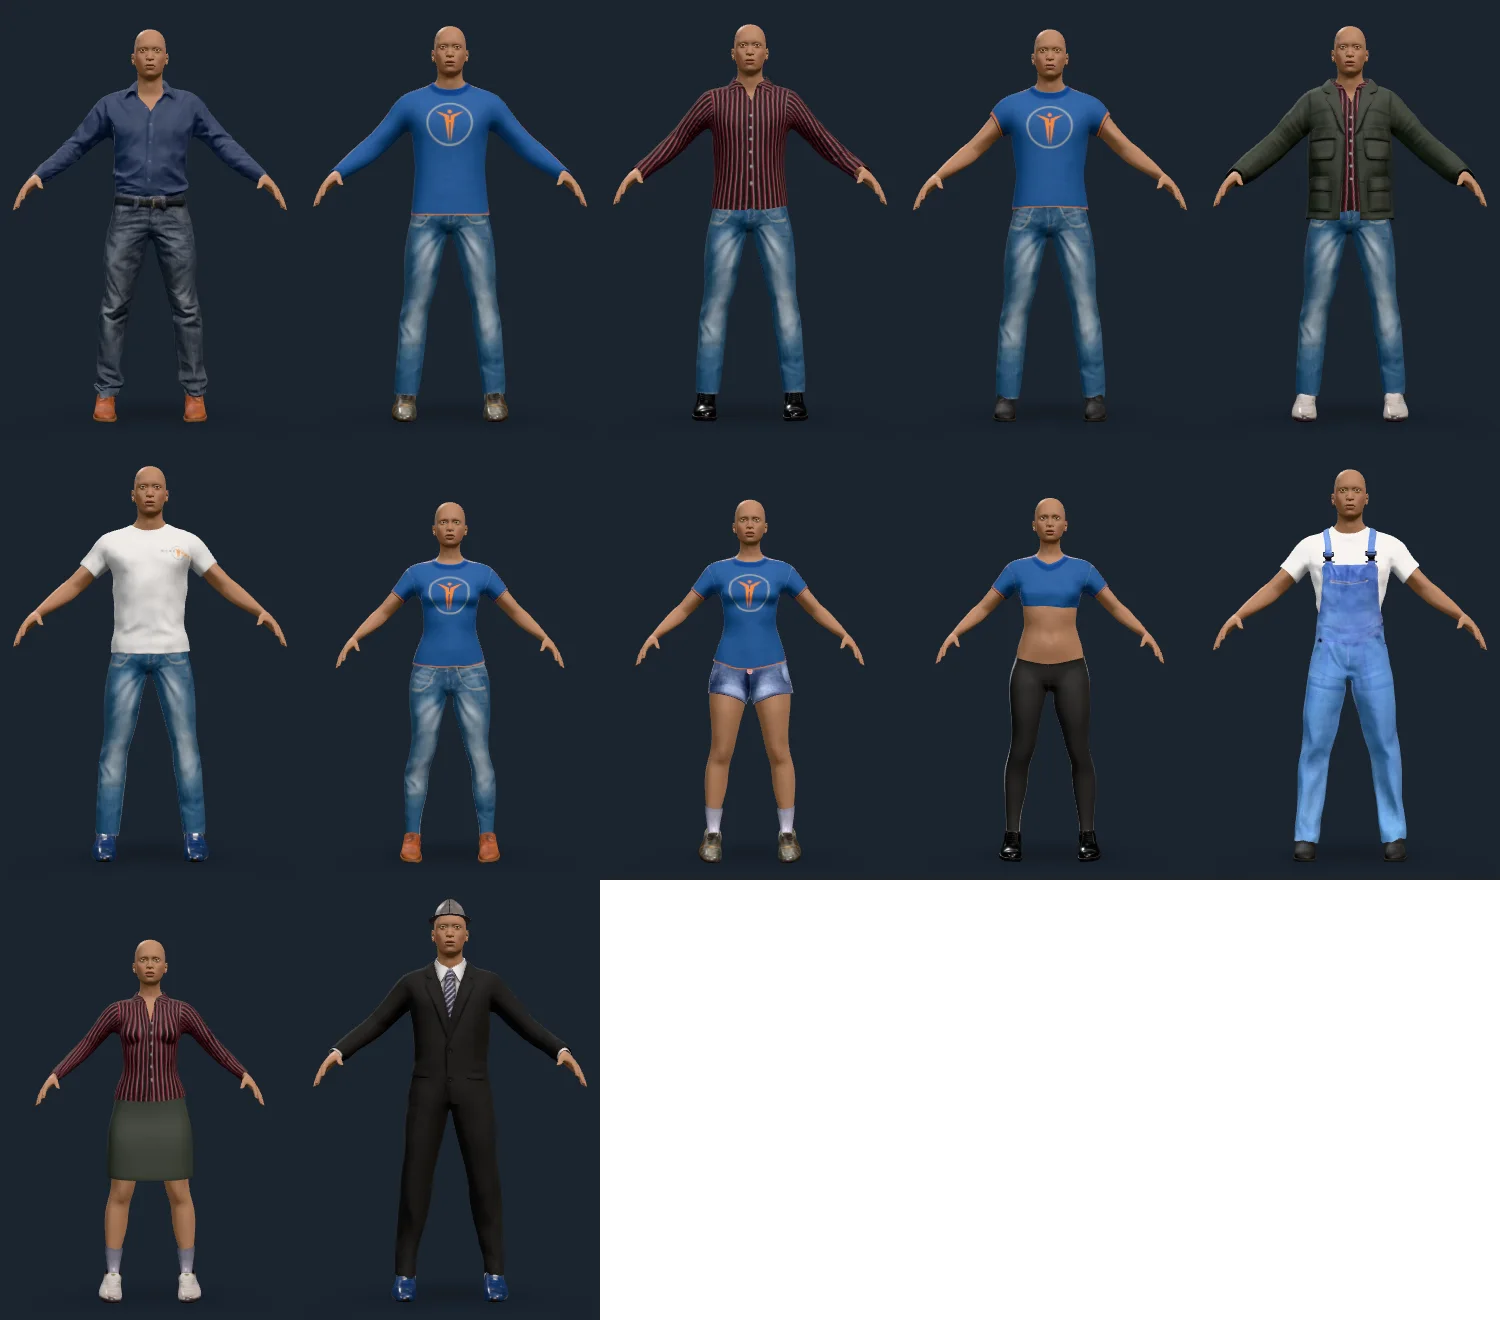
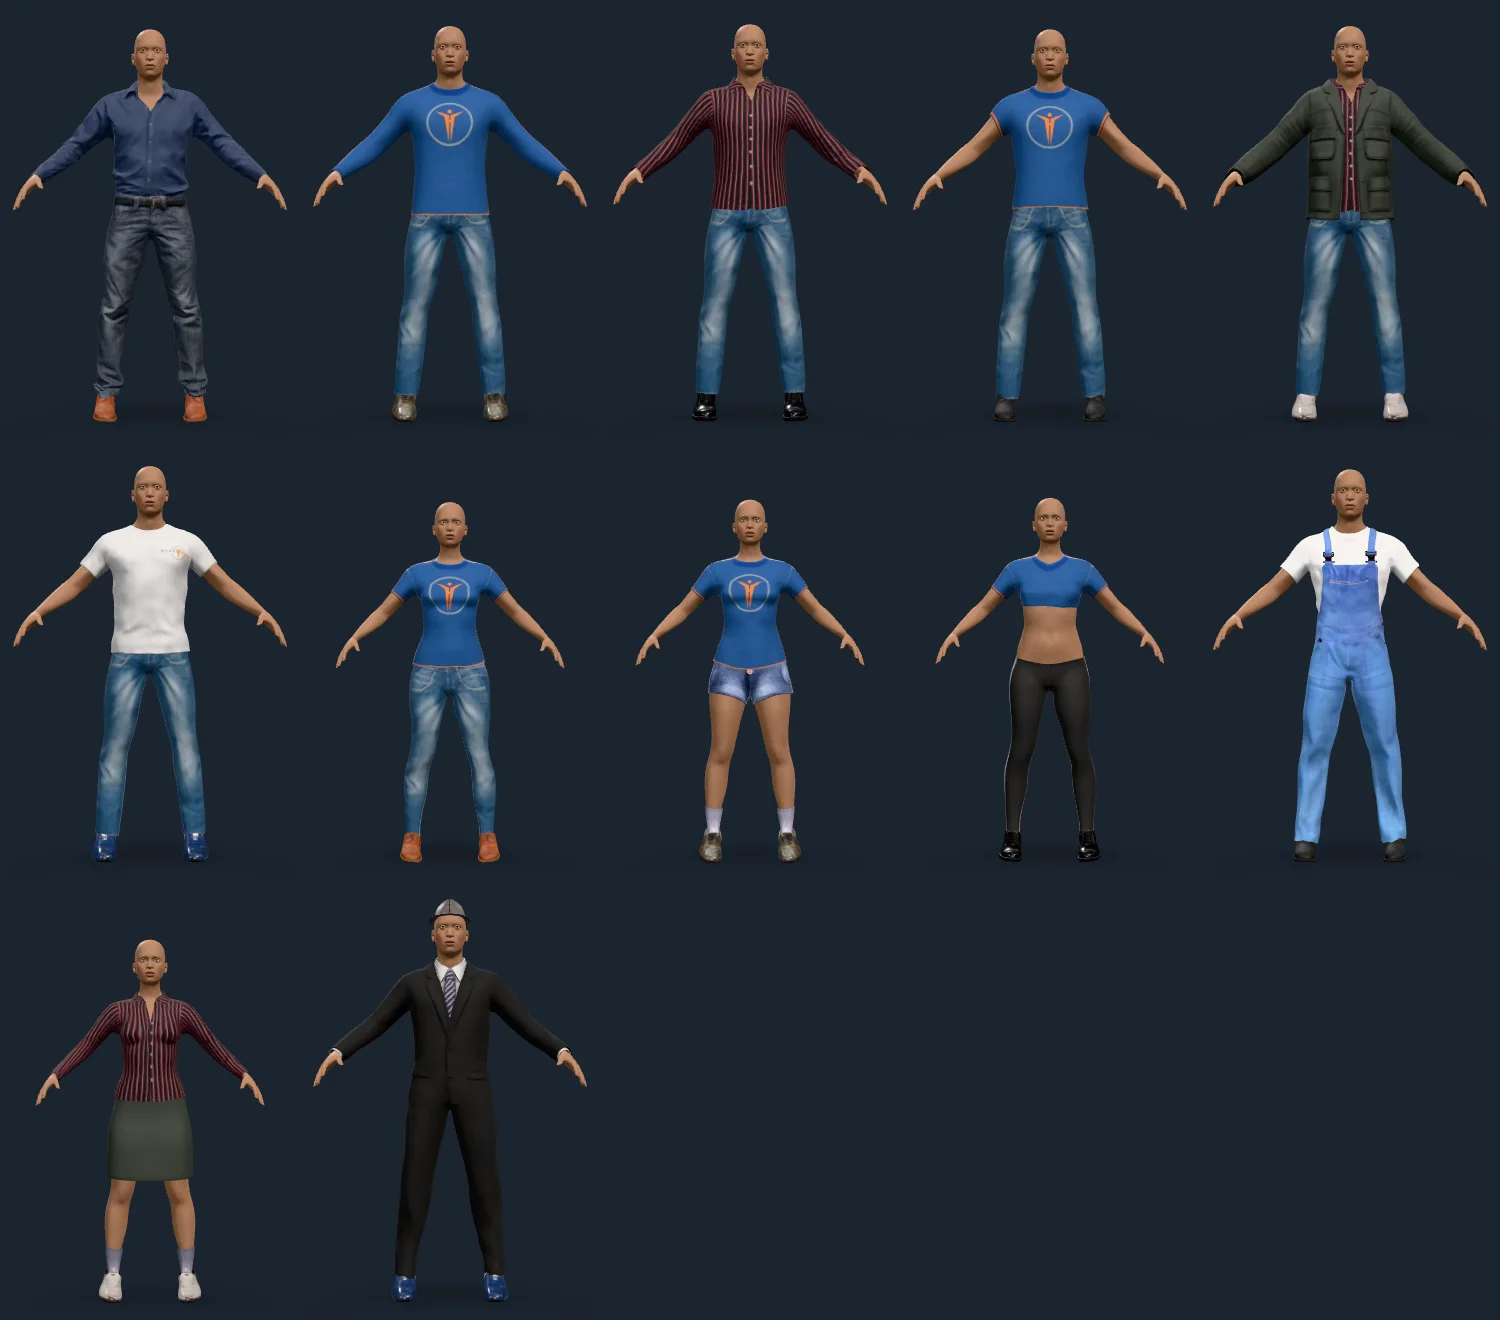
feat: label garments for a person, and pad contact sheets with the stage
The wardrobe listed garments by asset name ("Male casualsuit 01"), which says
whom the asset was drawn on, not what it is, and a creator should not make
people pick clothes by sex. Each garment now carries a label from the pack
("Navy shirt and jeans", "Brown oxfords", "Suit and tie"), the Wardrobe shows
those, and a test holds the labels distinct and free of a sex or a file
number. Packing again changes only the manifest.

The contact sheet left empty cells in a short last row transparent, which a
viewer drew white. They now take the stage's background. The evidence sheets
are re-rendered, and the evidence notes the clothing pack ships with the
public demo, loaded only by ?clothing.

Claude-Session: https://claude.ai/code/session_018c2hXVLdDb8BTFpxwP3foX

Changed region(s): [[0.3987, 0.6523, 1.0, 1.0]]

diff --git a/scripts/pack-clothing.ts b/scripts/pack-clothing.ts
@@ -57,26 +57,26 @@ const SYSTEM_ASSETS_ZIP = {
  * two stacks two pairs of trousers, and one is worn at a time. The shoes' own
  * `z_depth` 5 puts them under every suit's 50. The id is `<group>/<directory>`.
  */
-const GARMENTS: readonly [string, keyof typeof GARMENT_LAYERS][] = [
-  ["male_casualsuit01", "clothes"],
-  ["male_casualsuit02", "clothes"],
-  ["male_casualsuit03", "clothes"],
-  ["male_casualsuit04", "clothes"],
-  ["male_casualsuit05", "clothes"],
-  ["male_casualsuit06", "clothes"],
-  ["female_casualsuit01", "clothes"],
-  ["female_casualsuit02", "clothes"],
-  ["female_sportsuit01", "clothes"],
-  ["male_worksuit01", "clothes"],
-  ["female_elegantsuit01", "clothes"],
-  ["male_elegantsuit01", "clothes"],
-  ["shoes01", "shoes"],
-  ["shoes02", "shoes"],
-  ["shoes03", "shoes"],
-  ["shoes04", "shoes"],
-  ["shoes05", "shoes"],
-  ["shoes06", "shoes"],
-  ["fedora01", "hat"],
+const GARMENTS: readonly [string, keyof typeof GARMENT_LAYERS, string][] = [
+  ["male_casualsuit01", "clothes", "Navy shirt and jeans"],
+  ["male_casualsuit02", "clothes", "Blue sweater and jeans"],
+  ["male_casualsuit03", "clothes", "Striped shirt and jeans"],
+  ["male_casualsuit04", "clothes", "Blue T-shirt and jeans"],
+  ["male_casualsuit05", "clothes", "Field jacket and jeans"],
+  ["male_casualsuit06", "clothes", "White T-shirt and jeans"],
+  ["female_casualsuit01", "clothes", "Fitted T-shirt and jeans"],
+  ["female_casualsuit02", "clothes", "T-shirt and denim shorts"],
+  ["female_sportsuit01", "clothes", "Sports top and leggings"],
+  ["male_worksuit01", "clothes", "Overalls"],
+  ["female_elegantsuit01", "clothes", "Striped blouse and skirt"],
+  ["male_elegantsuit01", "clothes", "Suit and tie"],
+  ["shoes01", "shoes", "Brown oxfords"],
+  ["shoes02", "shoes", "Camouflage trainers"],
+  ["shoes03", "shoes", "Black dress shoes"],
+  ["shoes04", "shoes", "Black plimsolls"],
+  ["shoes05", "shoes", "White trainers"],
+  ["shoes06", "shoes", "Blue trainers"],
+  ["fedora01", "hat", "Grey fedora"],
 ];
 const GROUP: Record<keyof typeof GARMENT_LAYERS, string> = {
   underwear: "underwear",
@@ -95,8 +95,8 @@ const TEXTURES = { max: 1024, quality: 86, normalQuality: 78 };
 
 const sha = (file: string) => createHash("sha256").update(fs.readFileSync(file)).digest("hex");
 
-function compile(): { asset: CompiledAsset; tags: string[]; source: string }[] {
-  return GARMENTS.map(([dir, kind]) => {
+function compile(): { asset: CompiledAsset; label: string; tags: string[]; source: string }[] {
+  return GARMENTS.map(([dir, kind, label]) => {
     const folder = path.join(SYSTEM, "clothes", dir);
     const mhclo = fs.readdirSync(folder).find((f) => f.endsWith(".mhclo"));
     if (!mhclo) throw new Error(`${folder} has no .mhclo`);
@@ -109,7 +109,7 @@ function compile(): { asset: CompiledAsset; tags: string[]; source: string }[] {
       .map((l) => l.slice(4).trim())
       // The project's own mark, on every asset, tells a browser nothing.
       .filter((t) => !t.includes("MakeHuman"));
-    return { asset, tags, source: path.relative(SYSTEM, file) };
+    return { asset, label, tags, source: path.relative(SYSTEM, file) };
   });
 }
 
@@ -138,6 +138,7 @@ function main(): Promise<void> {
     const packed = writeGarments(OUT, GARMENTS_FILE, assets);
     const entries: GarmentEntry[] = packed.entries.map((e, i) => ({
       ...e,
+      label: (compiled[i] as (typeof compiled)[number]).label,
       tags: (compiled[i] as (typeof compiled)[number]).tags,
     }));
     const manifest: ClothingManifest = {

diff --git a/src/editor/ui/WardrobePanel.tsx b/src/editor/ui/WardrobePanel.tsx
@@ -2,16 +2,11 @@
  * The wardrobe: the clothing pack's garments by kind, one chip each. Choosing
  * a garment wears it (and takes off the one of its kind it replaces); choosing
  * a worn one takes it off. Kinds layer over one another, so a jacket goes over
- * a suit. Shown only when the client loaded a clothing pack.
+ * a suit. Garments are named for what they are, not whom they were drawn for:
+ * they bind to any figure. Shown only when the client loaded a clothing pack.
  */
 import { wardrobeGroups, wearGarment, wornIn } from "../wardrobe.ts";
 import type { HumanoidEditor } from "./useHumanoidEditor.ts";
-
-/** "male_casualsuit01" as "Male casualsuit 01". */
-const title = (name: string) => {
-  const spaced = name.replace(/_/g, " ").replace(/(\D)(\d+)$/, "$1 $2");
-  return spaced.charAt(0).toUpperCase() + spaced.slice(1);
-};
 
 export function WardrobePanel({ editor }: { editor: HumanoidEditor }) {
   const wardrobe = editor.ready?.wardrobe ?? [];
@@ -36,10 +31,9 @@ export function WardrobePanel({ editor }: { editor: HumanoidEditor }) {
                   type="button"
                   className="hk-chip"
                   aria-pressed={worn.has(g.id)}
-                  title={g.tags.join(", ")}
                   onClick={() => editor.update((r) => wearGarment(r, g, wardrobe))}
                 >
-                  {title(g.name)}
+                  {g.label}
                 </button>
               ))}
             </fieldset>

diff --git a/tests/browser/panels.test.tsx b/tests/browser/panels.test.tsx
@@ -204,16 +204,16 @@ describe("WardrobePanel", () => {
     // Garments are listed by kind, with readable names.
     await expect.element(screen.getByText("Outfits").first()).toBeVisible();
     await expect.element(screen.getByText("Shoes").first()).toBeVisible();
-    const one = screen.getByRole("button", { name: "Male casualsuit 01" });
+    const one = screen.getByRole("button", { name: "Navy shirt and jeans" });
     await one.click();
     await expect.element(one).toHaveAttribute("aria-pressed", "true");
     expect(latest?.recipe.outfit).toEqual(["suits/male_casualsuit01"]);
     // A second outfit replaces the first; shoes layer over it.
-    await screen.getByRole("button", { name: "Male casualsuit 02" }).click();
-    await screen.getByRole("button", { name: "Shoes 01" }).click();
+    await screen.getByRole("button", { name: "Blue sweater and jeans" }).click();
+    await screen.getByRole("button", { name: "Brown oxfords" }).click();
     expect(latest?.recipe.outfit).toEqual(["suits/male_casualsuit02", "shoes/shoes01"]);
     await expect.element(one).toHaveAttribute("aria-pressed", "false");
-    await screen.getByRole("button", { name: "Shoes 01" }).click();
+    await screen.getByRole("button", { name: "Brown oxfords" }).click();
     expect(latest?.recipe.outfit).toEqual(["suits/male_casualsuit02"]);
     // Wearing is one undoable step.
     latest?.undo();

diff --git a/tests/wardrobe.test.ts b/tests/wardrobe.test.ts
@@ -10,10 +10,10 @@ import { createRecipe } from "../src/recipe/recipe.ts";
 import { clothingManifest } from "./fixtures.ts";
 
 const wardrobe: WardrobeEntry[] = [
-  { id: "suits/a", name: "a", kind: "clothes", tags: ["Casual"] },
-  { id: "suits/b", name: "b", kind: "clothes", tags: [] },
-  { id: "suits/j", name: "j", kind: "jacket", tags: ["Elegant"] },
-  { id: "shoes/s", name: "s", kind: "shoes", tags: [] },
+  { id: "suits/a", name: "a", label: "A", kind: "clothes", tags: ["Casual"] },
+  { id: "suits/b", name: "b", label: "B", kind: "clothes", tags: [] },
+  { id: "suits/j", name: "j", label: "J", kind: "jacket", tags: ["Elegant"] },
+  { id: "shoes/s", name: "s", label: "S", kind: "shoes", tags: [] },
 ];
 const [a, b, j, s] = wardrobe as [WardrobeEntry, WardrobeEntry, WardrobeEntry, WardrobeEntry];
 
@@ -24,6 +24,7 @@ describe("the wardrobe", () => {
     expect(list.find((g) => g.id === "shoes/shoes01")).toMatchObject({
       kind: "shoes",
       name: "shoes01",
+      label: "Brown oxfords",
     });
     expect(wardrobeOf(null)).toEqual([]);
   });

diff --git a/tests/clothing.test.ts b/tests/clothing.test.ts
@@ -48,6 +48,17 @@ describe("the clothing pack", () => {
     for (const id of assets.garments.keys()) expect(assets.attachments.has(id)).toBe(false);
   });
 
+  it("labels every garment for a person, distinctly, without saying whom it is for", () => {
+    // A wardrobe is browsed by what a garment is. The asset names (`male_casualsuit01`)
+    // carry a sex a body does not need, and the garments bind to any figure.
+    const labels = [...assets.garments.values()].map((g) => g.entry.label);
+    expect(new Set(labels).size).toBe(labels.length);
+    for (const label of labels) {
+      expect(label.length, label).toBeGreaterThan(3);
+      expect(label, label).not.toMatch(/\b(fe)?male\b|_|\d{2}$/i);
+    }
+  });
+
   it("binds every garment, so no mesh is left floating at the origin", () => {
     // A reader that mistook a keyword line for the end of the vertex block bound
     // none of shoes02, 03, 05 and 06.

diff --git a/src/editor/wardrobe.ts b/src/editor/wardrobe.ts
@@ -12,8 +12,10 @@ import type { Recipe } from "../recipe/recipe.ts";
 /** What a wardrobe lists of a garment, before its geometry has loaded. */
 export interface WardrobeEntry {
   id: string;
-  /** The asset's own name. */
+  /** The asset's own name (a file name). */
   name: string;
+  /** What to call it in a list: "Brown oxfords". */
+  label: string;
   /** The category it stacks as (`GARMENT_LAYERS`). */
   kind: string;
   tags: string[];
@@ -43,6 +45,7 @@ export function wardrobeOf(manifest: ClothingManifest | null): WardrobeEntry[] {
   return (manifest?.garments.entries ?? []).map((g) => ({
     id: g.id,
     name: g.name,
+    label: g.label,
     kind: g.kind,
     tags: g.tags,
   }));

diff --git a/src/format/assetFormat.ts b/src/format/assetFormat.ts
@@ -261,7 +261,12 @@ export interface GarmentEntry extends Omit<AttachmentEntry, "layout"> {
    * `hat`, ...), in place of an attachment's kind.
    */
   kind: string;
-  /** The asset's own tags (`Casual`, `Male`, ...), for browsing. */
+  /**
+   * What a person would call it ("Brown oxfords"), for browsing; the asset's
+   * own name (`name`) is a file name that also says whom it was drawn for.
+   */
+  label: string;
+  /** The asset's own tags (`Casual`, `Male`, ...). */
   tags: string[];
   layout: Omit<AttachmentEntry["layout"], "occlusion">;
 }

diff --git a/docs/evidence/clothing.md b/docs/evidence/clothing.md
@@ -10,10 +10,13 @@ body; what it found is listed under each.
 
 ![The twelve suits, each with a pair of shoes, and a hat](./clothing-garments.webp)
 
-Left to right, top to bottom: `male_casualsuit01` to `06`,
-`female_casualsuit01` and `02`, `female_sportsuit01`, `male_worksuit01`,
-`female_elegantsuit01`, and `male_elegantsuit01` with `fedora01`. The shoes
-cycle through `shoes01` to `06`, so every pair is shown too.
+Left to right, top to bottom: navy shirt, blue sweater, striped shirt, blue
+T-shirt, field jacket and white T-shirt (each with jeans), fitted T-shirt and
+jeans, T-shirt and denim shorts, sports top and leggings, overalls, striped
+blouse and skirt, and suit and tie with the grey fedora. The shoes cycle through
+all six pairs, so every pair is shown too. (The assets are named `male_…` and
+`female_…` after the figure they were drawn on; the pack labels them by what
+they are, since every garment binds to any figure.)
 
 Each suit is a complete outfit (shirt, trousers, and for the elegant ones a
 jacket in one mesh). The sports top ends above the waist by design, and the pink
@@ -76,9 +79,19 @@ only left out of the draw.
 
 ## The wardrobe
 
-![The creator's Wardrobe tab with an elegant suit, shoes and a hat worn](./clothing-wardrobe.webp)
+![The creator's Wardrobe tab with a suit, shoes and a hat worn](./clothing-wardrobe.webp)
 
 The creator offers a Wardrobe tab when the client loaded a clothing pack: the
-garments by kind, one worn per kind, layered across kinds, each change one undo
-step. Picking a garment changes the outfit without rebuilding the body, so a
-slider drag over a dressed figure stays as smooth as over a bare one.
+garments by kind, named by what they are ("Brown oxfords", "Overalls"), one worn
+per kind, layered across kinds, each change one undo step. Picking a garment
+changes the outfit without rebuilding the body, so a slider drag over a dressed
+figure stays as smooth as over a bare one. The creator's title shows whole above
+its actions at this panel width.
+
+## On the public demo
+
+The clothing pack is CC0 and is published with the playground: the Pages build
+carries its files, and `/playground/?clothing` opens the demo with the pack
+loaded and the Wardrobe tab in the creator. A visit without `?clothing` never
+requests a byte of it (a Playwright test checks that). Only the adult anatomy
+pack is kept off Pages (`pnpm check:pages`).

diff --git a/docs/API.md b/docs/API.md
@@ -503,7 +503,9 @@ The main-thread handle to an evaluation worker.
   whether the adult anatomy pack is loaded and, with it, its `anatomy`
   (`AdultAnatomySpec`: the features `appliedAnatomy` reads and the state morphs
   the shape signals include), and the garments the clothing pack offers
-  (`WardrobeEntry[]`: `id`, `name`, `kind`, `tags`; empty without that pack).
+  (`WardrobeEntry[]`: `id`, `name`, `label`, `kind`, `tags`; empty without that
+  pack). `label` is what to call a garment in a list ("Brown oxfords"); `name`
+  is the asset's file name, which says whom it was drawn for.
 - `client.evaluate(recipe, key?, signals?, haveOutfit?): Promise<Evaluation>`
   (signals as for `model.evaluate`) is latest-wins per key:
   each key has at most one evaluation in the worker and one waiting, and a
